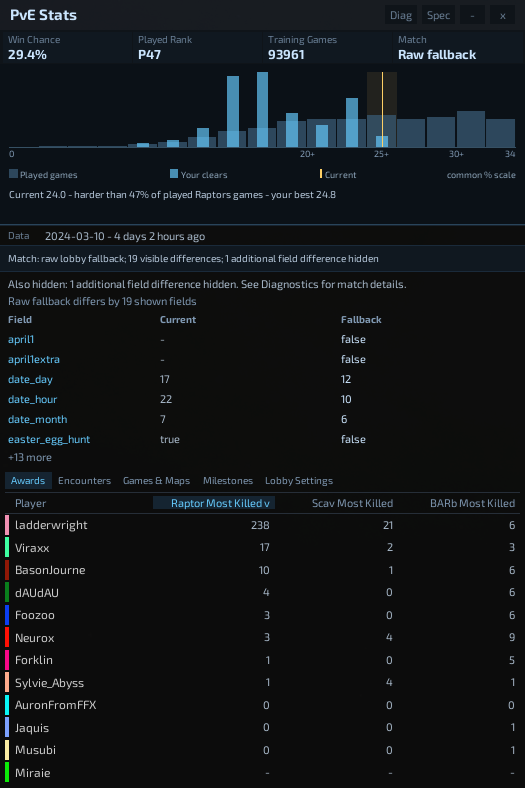
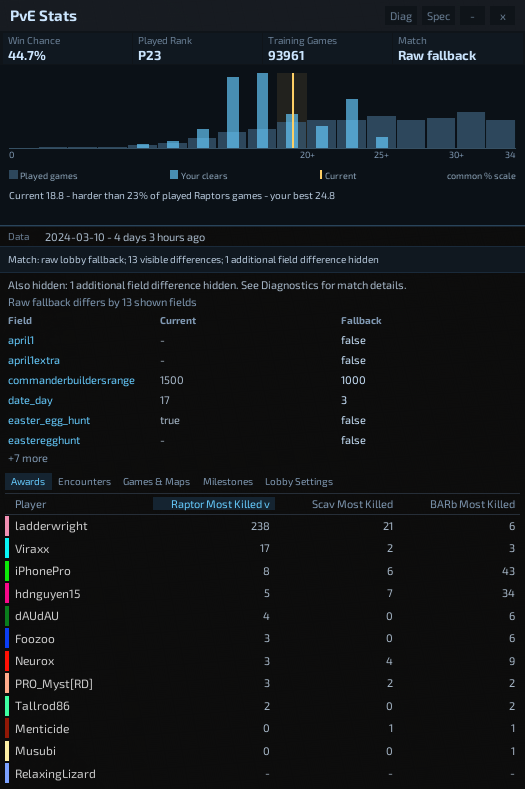
cover update

diff --git a/gui_pve_stats/gui_pve_stats.github.md b/gui_pve_stats/gui_pve_stats.github.md
@@ -17,19 +17,18 @@ PvE Stats adds an in-game RmlUi panel for supported PvE modes. It shows represen
 - Optional spectator rows and copyable support diagnostics
 - Persistent minimize and per-game close behavior
 
-## BAR-Widgets integration
+## Behavior
 
-- Globally scoped lower-snake-case ID: `gui_pve_stats`
-- Manifest ID matches the widget directory
-- Semantic version and RFC 3339 `last_updated` metadata
-- Detailed `README.md` and a prepared Discord announcement
-- Multi-file package compatible with `LuaUI/Widgets/gui_pve_stats`, with helper modules isolated under `include/`
-- Package size remains well below the 5 MiB limit
+The widget is enabled by default and display-only. It sends the current PvE context to the stats service but does not issue commands or automate gameplay.
+
+## Included
+
+- Lua, RML, RCSS, and helper modules
+- Community widget manifest and documentation
+- Automated tests
+- Cover image
 
 ## Verification
 
 - [x] Lua unit tests pass for the model, non-blocking HTTP client, and widget scheduler
-- [x] Runtime RML and helper-module paths match the Community Widgets install directory
-- [x] Manifest validates against the BAR-Widgets schema
-- [x] Package is below the 5 MiB limit
-- [ ] Publish the Discord announcement and place its URL in `manifest.json`
+- [x] Docker build passed